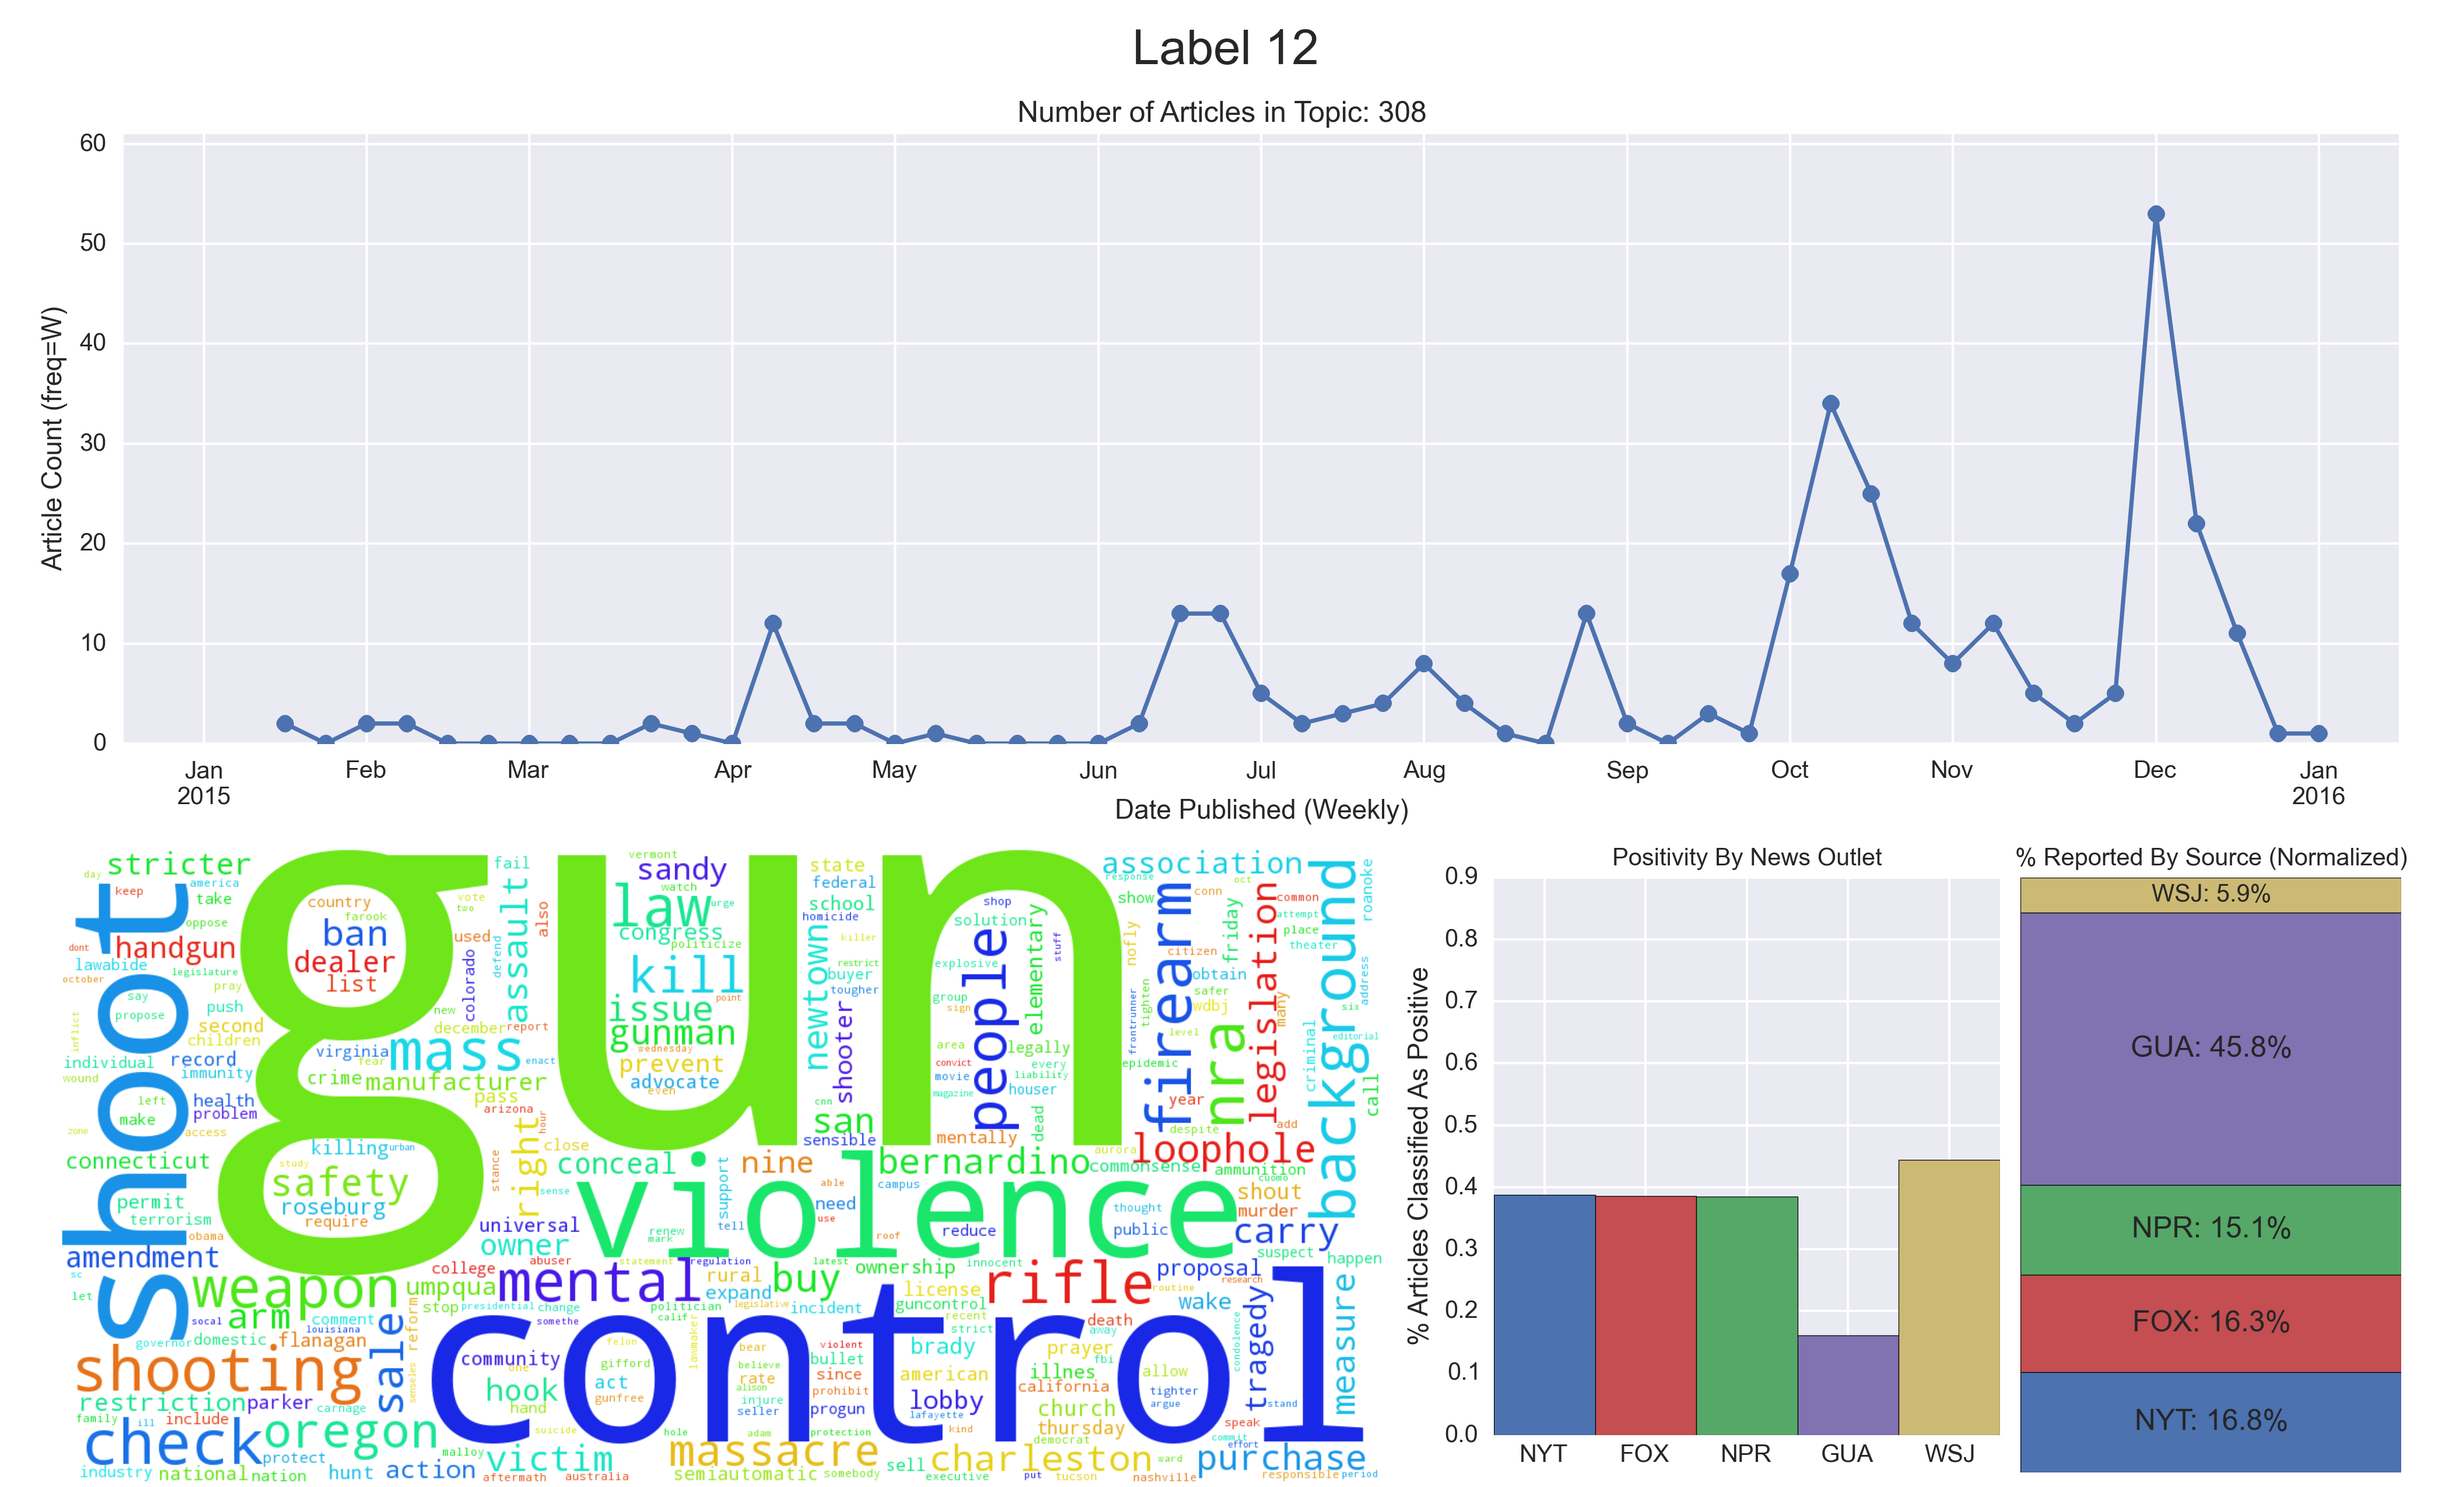
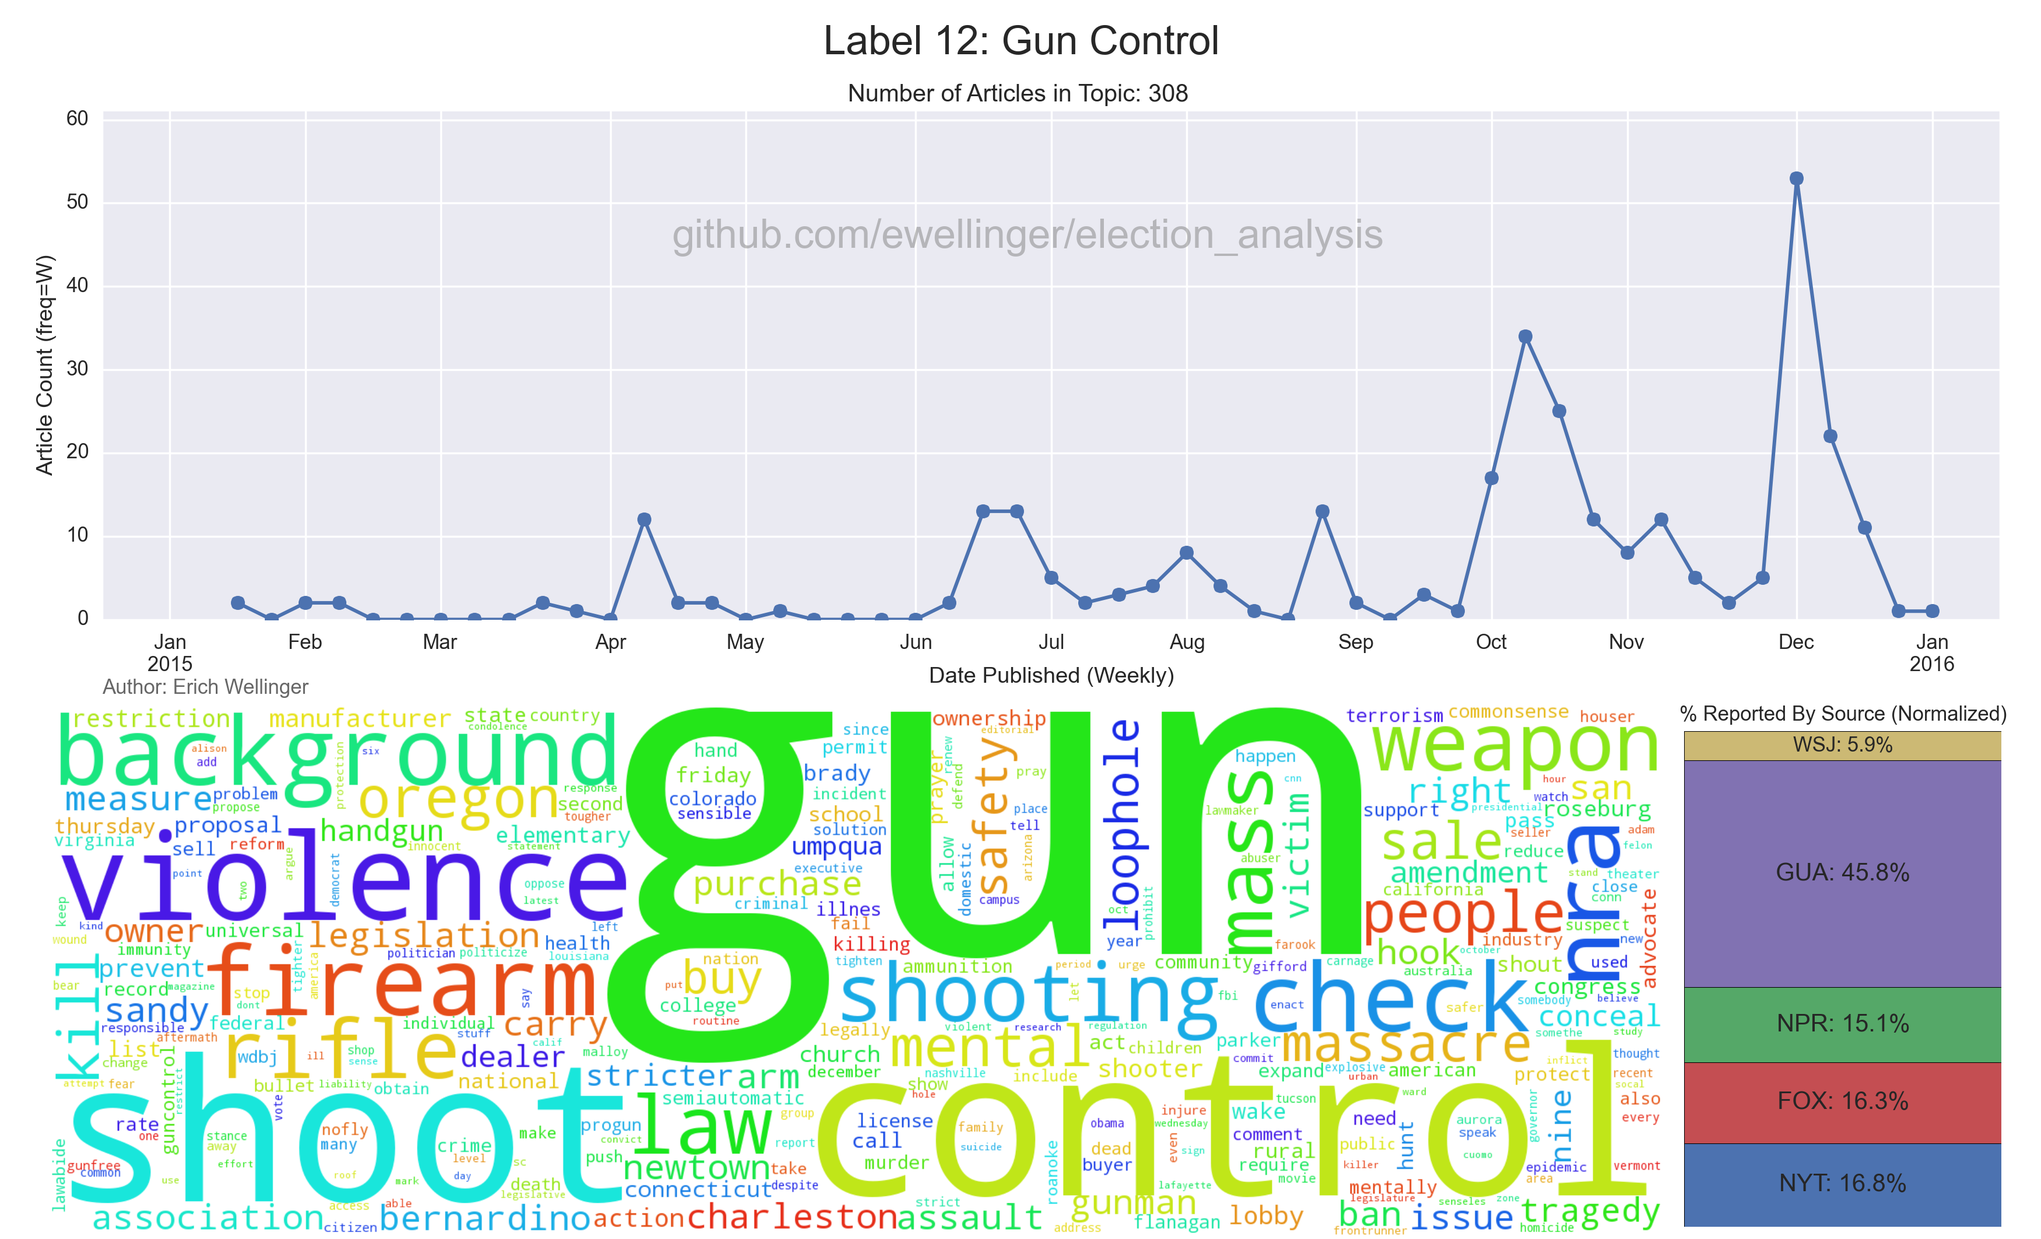
Added republican and democrat plots to the README

diff --git a/plots.py b/plots.py
@@ -224,44 +224,53 @@ if __name__=='__main__':
     topic_labels = get_topic_labels()
 
     path = './topic_plots/'
-    # for idx in xrange(90):
-    #     # If the topic is junk, skip making the plot
-    #     if topic_labels[idx] == 'junk':
-    #         print '\n'
-    #         continue
-    #     print 'Topic {}: {}'.format(str(idx), topic_labels[idx])
-    #     print topic_words[idx]
-    #     print '\n'
-    #
-    #     file_name = path + 'topic_{}_cloud_positivity.png'.format(idx)
-    #     topic_time_and_cloud(df, (labels, idx), feature_names, nmf, 'Label {}: {}'.format(str(idx), topic_labels[idx]), show=False)
-    #     plt.savefig(file_name, dpi=250)
-    #     plt.close()
-    #
-    #     file_name = path + 'topic_{}_cloud.png'.format(idx)
-    #     topic_time_and_cloud(df, (labels, idx), feature_names, nmf, 'Label {}: {}'.format(str(idx), topic_labels[idx]), positivity=False, show=False)
-    #     plt.savefig(file_name, dpi=250)
-    #     plt.close()
-    #
-    #     file_name = path + 'topic_{}_time_source.png'.format(idx)
-    #     fig = plt.figure(figsize=(14, 8.5))
-    #     article_count_by_time(df, topic=(labels, idx), year=True, source=True, fig=fig, show=False)
-    #     plt.subplots_adjust(left=0.05, bottom=0.10, right=0.97, top=0.94)
-    #     plt.title('')
-    #     plt.suptitle('Label {}: {}'.format(str(idx), topic_labels[idx]), fontsize=14)
-    #     plt.savefig(file_name, dpi=300)
-    #     plt.close()
-    #
-    #     file_name = path + 'topic_{}_time_source_normalized.png'.format(idx)
-    #     fig = plt.figure(figsize=(14, 8.5))
-    #     article_count_by_time(df, topic=(labels, idx), year=True, source=True, fig=fig, normalize=True, show=False)
-    #     plt.subplots_adjust(left=0.05, bottom=0.10, right=0.97, top=0.94)
-    #     plt.title('')
-    #     plt.suptitle('Label {}: {}'.format(str(idx), topic_labels[idx]), fontsize=14)
-    #     plt.savefig(file_name, dpi=300)
-    #     plt.close()
+    for idx in xrange(90):
+        # If the topic is junk, skip making the plot
+        if topic_labels[idx] == 'junk':
+            print '\n'
+            continue
+        print 'Topic {}: {}'.format(str(idx), topic_labels[idx])
+        print topic_words[idx]
+        print '\n'
+
+        file_name = path + 'topic_{}_cloud_positivity.png'.format(idx)
+        topic_time_and_cloud(df, (labels, idx), feature_names, nmf, 'Label {}: {}'.format(str(idx), topic_labels[idx]), show=False)
+        plt.savefig(file_name, dpi=250)
+        plt.close()
+
+        file_name = path + 'topic_{}_cloud.png'.format(idx)
+        topic_time_and_cloud(df, (labels, idx), feature_names, nmf, 'Label {}: {}'.format(str(idx), topic_labels[idx]), positivity=False, show=False)
+        plt.savefig(file_name, dpi=250)
+        plt.close()
+
+        file_name = path + 'topic_{}_time_source.png'.format(idx)
+        fig = plt.figure(figsize=(14, 8.5))
+        fig.text(0.05, 0.03, 'Author: Erich Wellinger', fontsize=10, alpha=0.7)
+        fig.text(0.33, 0.75, 'github.com/ewellinger/election_analysis', fontsize=20, color='gray', alpha=0.5)
+        article_count_by_time(df, topic=(labels, idx), year=True, source=True, fig=fig, show=False)
+        plt.subplots_adjust(left=0.05, bottom=0.10, right=0.97, top=0.94)
+        plt.title('')
+        plt.suptitle('Label {}: {}'.format(str(idx), topic_labels[idx]), fontsize=14)
+        plt.savefig(file_name, dpi=300)
+        plt.close()
+
+        file_name = path + 'topic_{}_time_source_normalized.png'.format(idx)
+        fig = plt.figure(figsize=(14, 8.5))
+        fig.text(0.05, 0.03, 'Author: Erich Wellinger', fontsize=10, alpha=0.7)
+        fig.text(0.33, 0.75, 'github.com/ewellinger/election_analysis', fontsize=20, color='gray', alpha=0.5)
+        article_count_by_time(df, topic=(labels, idx), year=True, source=True, fig=fig, normalize=True, show=False)
+        plt.subplots_adjust(left=0.05, bottom=0.10, right=0.97, top=0.94)
+        plt.title('')
+        plt.suptitle('Label {}: {}'.format(str(idx), topic_labels[idx]), fontsize=14)
+        plt.savefig(file_name, dpi=300)
+        plt.close()
 
     # Create candidate plot for the remaining democratic candidates
-    candidate_plots(df, labels, topic_labels, [82, 5], 'Remaining 2016 Democratic Candidates', byline='As of February 1, 2016')
+    candidate_plots(df, labels, topic_labels, [82, 5], 'Remaining 2016 Democratic Candidates', byline='As of February 1, 2016', show=False)
+    plt.savefig('./candidate_plots/democrat.png', dpi=350)
+    plt.close()
+
     # Create candidate plot for top 5 republican canidates (as of February 1st, 2016)
-    candidate_plots(df, labels, topic_labels, [2, 14, 22, 9, 4], 'Top 5 Polling 2016 Republican Candidates', byline='As of February 1, 2016')
+    candidate_plots(df, labels, topic_labels, [2, 14, 22, 9, 4], 'Top 5 Polling 2016 Republican Candidates', byline='As of February 1, 2016', show=False)
+    plt.savefig('./candidate_plots/republican.png', dpi=350)
+    plt.close()

diff --git a/README.md b/README.md
@@ -85,6 +85,14 @@ Jim Webb        |    07/02/2015     |   10/20/2015
 Lawrence Lessig |    09/06/2015     |   11/02/2015
 Joe Biden       |        N/A        |   10/21/2015
 
+Below we can see how the media coverage of select candidates compares over the course of 2015.  For brevity only a select few candidates were included on each plot.
+
+![republican_candidates](./candidate_plots/republican.png "Coverage of Top 5 Polling Republican Candidates As Of February 1st, 2016")
+
+
+![democratic_candidates](./candidate_plots/democrat.png "Coverage of Remaining Democratic Candidates As Of February 1st, 2016")
+
+
 ---
 
 ### Data Cleaning
